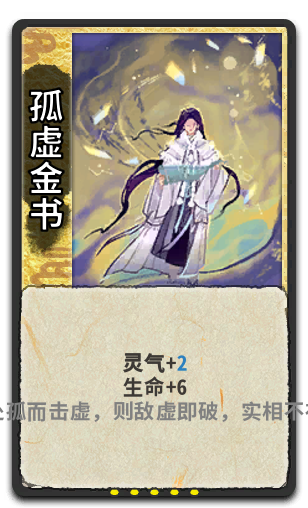
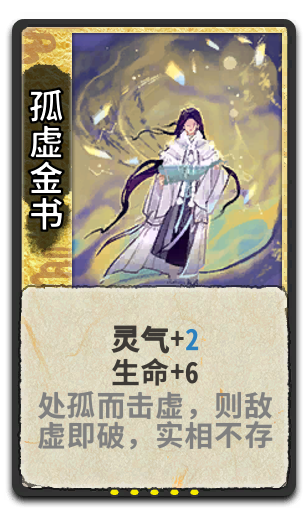
Update card notes and rendered scroll art

Changed region(s): [[0.0, 0.6201, 1.0, 0.8858]]

diff --git a/assets/site.css b/assets/site.css
@@ -46,6 +46,7 @@ table{border-collapse:collapse;width:100%;margin:14px 0}th,td{border:1px solid v
 /* story-block-mobile-anchor-offset */@media(max-width:720px){.story-block{scroll-margin-top:132px}}
 /* character-story-reading-polish */#story{max-width:900px}#story+.story-list{max-width:900px;gap:14px}#story+.story-list .story-block{padding:18px 20px}#story+.story-list .story-block h3{font-size:20px;margin-bottom:10px}#story+.story-list .story-block p{max-width:72ch;line-height:1.72}#story+.story-list .story-block p+p{margin-top:12px}@media(max-width:720px){#story+.story-list .story-block{padding:14px 13px}#story+.story-list .story-block h3{font-size:18px}#story+.story-list .story-block p{line-height:1.62}}
 .character-story-section{margin-top:30px}.character-story-section>#story{margin-top:0}.character-story-section>.story-list{max-width:900px;gap:14px}.character-story-section .story-block{padding:18px 20px}.character-story-section .story-block h3{font-size:20px;margin-bottom:10px}.character-story-section .story-block p{max-width:72ch;line-height:1.72}.character-story-section .story-block p+p{margin-top:12px}@media(max-width:720px){.character-story-section{margin-top:24px}.character-story-section .story-block{padding:14px 13px}.character-story-section .story-block h3{font-size:18px}.character-story-section .story-block p{line-height:1.62}}
+/* character-skin-gallery-polish */#skins+.skin-list{grid-template-columns:repeat(auto-fill,minmax(170px,190px));gap:12px;align-items:start}#skins+.skin-list .skin-item{padding:10px;background:linear-gradient(180deg,var(--surface-2),var(--surface));box-shadow:0 8px 24px rgba(0,0,0,.16)}#skins+.skin-list .skin-item img{height:220px;border-radius:6px;background:rgba(255,255,255,.035);object-fit:contain;object-position:center bottom}#skins+.skin-list .skin-item span{margin-top:8px;font-size:14px;line-height:1.18;font-weight:700;color:var(--ink)}@media(max-width:720px){#skins+.skin-list{grid-template-columns:repeat(2,minmax(0,1fr));gap:10px}#skins+.skin-list .skin-item{padding:8px}#skins+.skin-list .skin-item img{height:190px}#skins+.skin-list .skin-item span{font-size:13px;overflow-wrap:anywhere}}
 .character-index-hero{display:flex;justify-content:space-between;gap:18px;align-items:end;margin-bottom:18px;padding-bottom:18px;border-bottom:1px solid var(--line)}.character-index-hero h1{margin-top:0}.character-index-hero p{max-width:760px}.character-index-section{margin-top:18px}.character-index-section .home-section-head{margin-top:0}.character-showcase-grid{display:grid;grid-template-columns:repeat(auto-fit,minmax(250px,1fr));gap:12px}.character-showcase-card{display:grid;grid-template-columns:78px minmax(0,1fr);gap:12px;align-items:center;min-height:118px;padding:10px 12px;border:1px solid var(--line);border-radius:8px;background:var(--panel);color:var(--ink);text-decoration:none;overflow:hidden}.character-showcase-card:hover{text-decoration:none;border-color:var(--accent)}.character-showcase-portrait{width:78px;height:98px;align-self:end;overflow:hidden;border-radius:8px;background:linear-gradient(180deg,#e9dcc3,#c8b392)}.character-showcase-portrait img{width:100%;height:112px;object-fit:cover;object-position:50% 12%;display:block}.character-showcase-copy{display:block;min-width:0}.character-showcase-copy strong{display:block;font-size:18px;line-height:1.15}.character-showcase-copy>.muted{display:block;margin-top:3px}@media(max-width:720px){.character-index-hero{display:block}.character-index-hero .catalog-stats{margin-top:12px}}
 .home-character-grid{display:grid;grid-template-columns:repeat(4,minmax(0,1fr));gap:12px;margin-bottom:28px}.home-character-card{display:grid;grid-template-rows:auto minmax(0,1fr);gap:10px;padding:12px;min-height:174px;border:1px solid var(--line);border-radius:8px;background:var(--panel);color:var(--ink);text-decoration:none;overflow:hidden}.home-character-card:hover{text-decoration:none;border-color:var(--accent)}.home-character-portraits{display:grid;grid-template-columns:repeat(3,1fr);gap:4px;align-items:end;height:92px;overflow:hidden}.home-character-portraits img{width:100%;height:110px;object-fit:cover;object-position:50% 12%;border-radius:7px;background:linear-gradient(180deg,#e9dcc3,#c8b392)}.home-character-card strong{display:block;line-height:1.15}.home-character-card .muted{display:block;margin-top:4px;line-height:1.25}@media(max-width:920px){.home-character-grid{grid-template-columns:repeat(2,minmax(0,1fr))}}@media(max-width:560px){.home-character-grid{grid-template-columns:1fr}.home-character-card{min-height:0}.home-character-portraits{height:86px}.home-character-portraits img{height:104px}}
 .character-showcase-cards{display:flex;gap:4px;margin-top:8px;min-height:38px;overflow:hidden}.character-showcase-cards span{display:block;flex:0 0 auto;border-radius:5px}.character-showcase-cards img{display:block;width:27px;height:38px;object-fit:contain;filter:drop-shadow(0 3px 5px rgba(0,0,0,.28))}.character-showcase-cards em{display:none}@media(max-width:720px){.character-showcase-cards{margin-top:7px}.character-showcase-cards img{width:25px;height:35px}}

diff --git a/en/cards/4000044.html b/en/cards/4000044.html
@@ -12,7 +12,7 @@
 <div><img class="card-detail-art" src="/yxp_wiki/assets/cards/4000044_en.png" alt="Astral Move - Cide"></div>
 <div class="detail-summary">
 <p class="eyebrow">Card Profile</p>
-<h1>Astral Move - Cide</h1><p class="original-name"><span>Chinese name</span>星弈•断</p>
+<h1>Astral Move - Cide</h1><p class="original-name"><span>Chinese name</span>星弈•断</p><aside class="page-edict"><blockquote>I love this game but thanks to a certain card that makes your opponent SKIP THEIR NEXT CARD makes me lose interest in it. Imagine spending 20 minutes creating a perfect build just to lose because of a single card. For example you&#x27;ve create a dharma sword build just for your opponent to make you skip your dharma sword card then you just lose.</blockquote></aside>
 <p><a class="pill" href="/yxp_wiki/en/sects/heptastar-pavilion.html">Heptastar Pavilion</a></p>
 
 <div class="fact-grid"><div class="fact"><strong>Phase</strong><span>Incarnation</span></div><div class="fact"><strong>Levels</strong><span>1, 2, 3</span></div></div>

diff --git a/zh/cards/4000044.html b/zh/cards/4000044.html
@@ -12,7 +12,7 @@
 <div><img class="card-detail-art" src="/yxp_wiki/assets/cards/4000044_zh.png" alt="星弈•断"></div>
 <div class="detail-summary">
 <p class="eyebrow">卡牌图鉴</p>
-<h1>星弈•断</h1><p class="original-name"><span>英文名</span>Astral Move - Cide</p>
+<h1>星弈•断</h1><p class="original-name"><span>英文名</span>Astral Move - Cide</p><aside class="page-edict"><blockquote>我喜欢这个游戏，但某张能让对手跳过下一张牌的卡让我失去了兴趣。想象一下花20分钟构筑出完美阵容，结果只因为一张卡就输了。比如你做了一套万法剑构筑，结果对手让你跳过万法剑，然后你就输了。</blockquote></aside>
 <p><a class="pill" href="/yxp_wiki/zh/sects/heptastar-pavilion.html">七星阁</a></p>
 
 <div class="fact-grid"><div class="fact"><strong>境界</strong><span>化神</span></div><div class="fact"><strong>等级</strong><span>1, 2, 3</span></div></div>

diff --git a/en/cards/10000024.html b/en/cards/10000024.html
@@ -12,7 +12,7 @@
 <div><img class="card-detail-art" src="/yxp_wiki/assets/cards/10000024_en.png" alt="Crash Fist - Truncate"></div>
 <div class="detail-summary">
 <p class="eyebrow">Card Profile</p>
-<h1>Crash Fist - Truncate</h1><p class="original-name"><span>Chinese name</span>崩拳•截脉</p>
+<h1>Crash Fist - Truncate</h1><p class="original-name"><span>Chinese name</span>崩拳•截脉</p><aside class="page-edict"><blockquote>If I had to choose between breathing and loving Crash Fist - Truncate, I would use my last breath to say &quot;I love Crash Fist - Truncate&quot;</blockquote></aside>
 <p><a class="pill" href="/yxp_wiki/en/sects/duan-xuan-sect.html">Duan Xuan Sect</a></p>
 
 <div class="fact-grid"><div class="fact"><strong>Phase</strong><span>Virtuoso</span></div><div class="fact"><strong>Levels</strong><span>1, 2, 3</span></div></div>

diff --git a/zh/cards/10000024.html b/zh/cards/10000024.html
@@ -12,7 +12,7 @@
 <div><img class="card-detail-art" src="/yxp_wiki/assets/cards/10000024_zh.png" alt="崩拳•截脉"></div>
 <div class="detail-summary">
 <p class="eyebrow">卡牌图鉴</p>
-<h1>崩拳•截脉</h1><p class="original-name"><span>英文名</span>Crash Fist - Truncate</p>
+<h1>崩拳•截脉</h1><p class="original-name"><span>英文名</span>Crash Fist - Truncate</p><aside class="page-edict"><blockquote>如果我必须在呼吸和爱崩拳•截脉之间选择，我会用最后一口气说“我爱崩拳•截脉”。</blockquote></aside>
 <p><a class="pill" href="/yxp_wiki/zh/sects/duan-xuan-sect.html">锻玄宗</a></p>
 
 <div class="fact-grid"><div class="fact"><strong>境界</strong><span>金丹</span></div><div class="fact"><strong>等级</strong><span>1, 2, 3</span></div></div>
